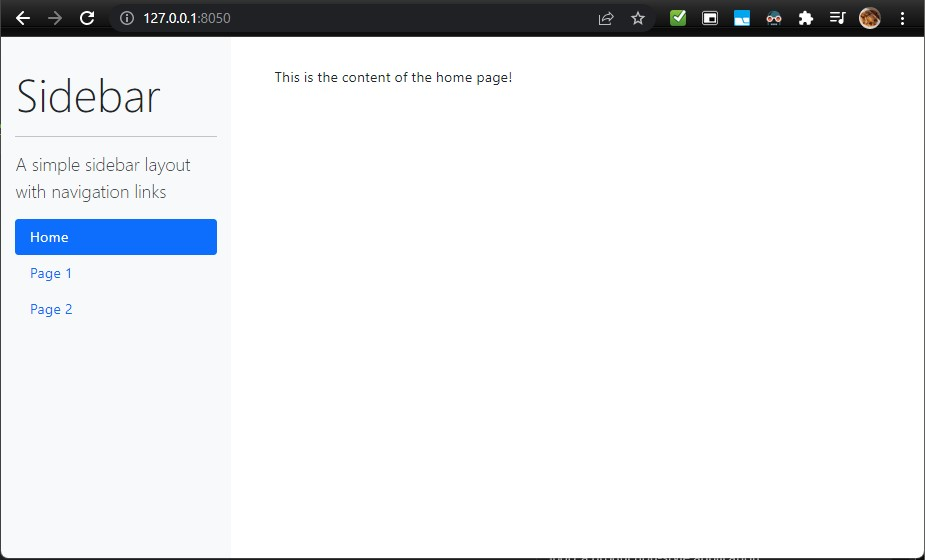
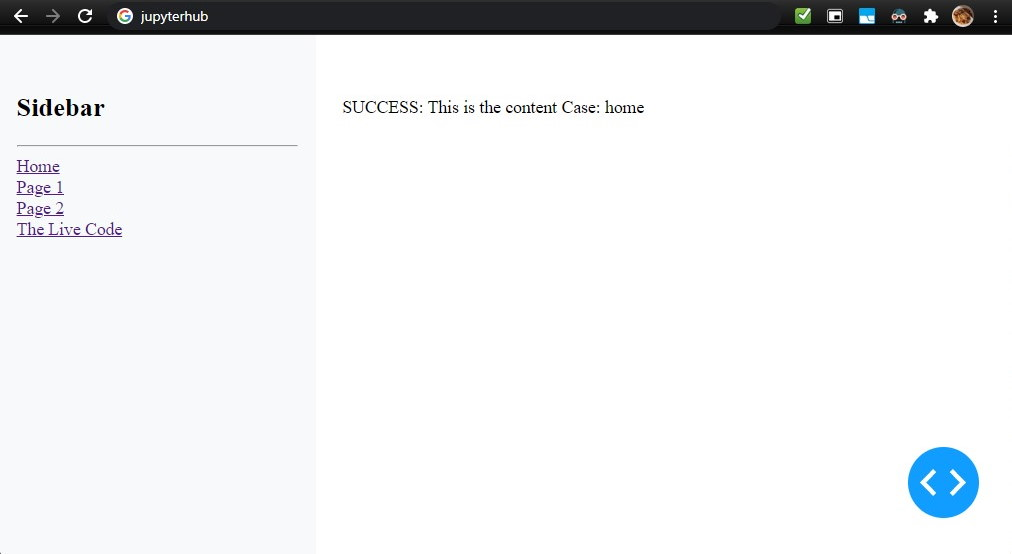
better

diff --git a/README.md b/README.md
@@ -1,9 +1,8 @@
-# Multipage Dash App
+# Multipage Dash App in JupyterHub
 
-Exploration and demo of a multipage dash app.
+Multipage dash app that is compatable with JupyterHub.
 
-[Original Source](https://dash-bootstrap-components.opensource.faculty.ai/examples/simple-sidebar/)
-
+This multipage dash app will run inside JupyterHub and allow browsing externally by leveraging jupyter proxy.
 
 ![BAsic App Runnung In Browser](./docs/basic-app-running.jpg)
 
@@ -25,9 +24,34 @@ pip install -r requirements.txt
 ```
 
 
+### Configuration
+
+Set these for external browsing outside JupyterHub:
+```python
+username='user@example.com'
+url_prefix= f"/user/{username}/proxy/{port}/"
+```
+
+Or to view locally set it to:
+```python
+url_prefix= "/"
+```
+
+This leaves us where the whole internal/external viewing is determined by `url_prefix` which is handy.
+
+
 ### Run Multipage App
 
-```
+```bash
 make run
 ```
+
+### View Externally
+
+With the url_prefix set to the string used for external browsing, you can view the dash here:
+
+https://example.com/user/{username}/proxy/{port}/
+
+Example using the values in main:
+https://example.com/user/user@example.com/proxy/8050/
 
